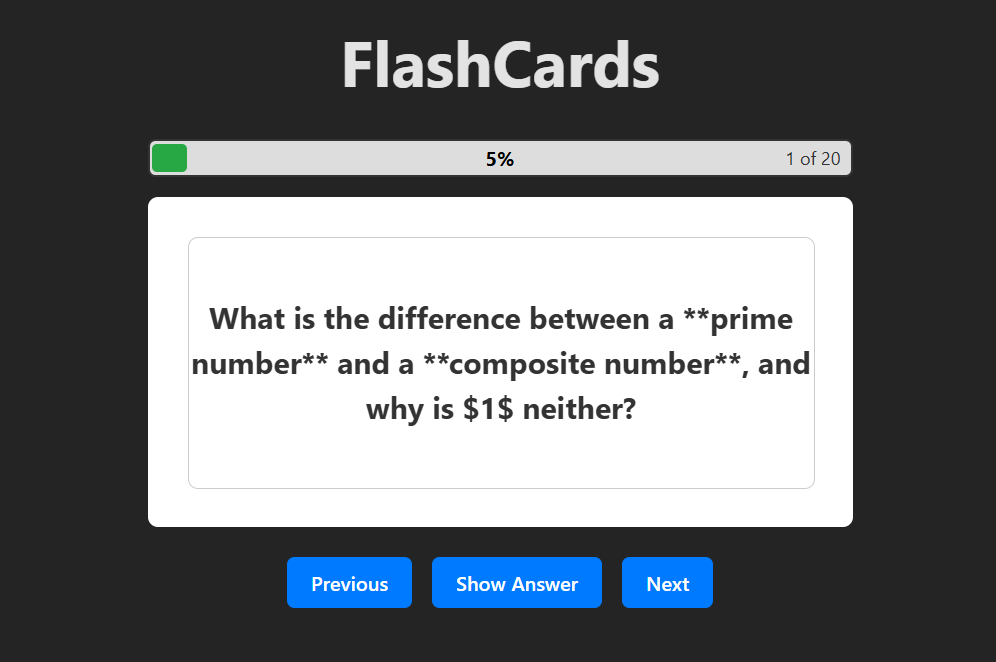
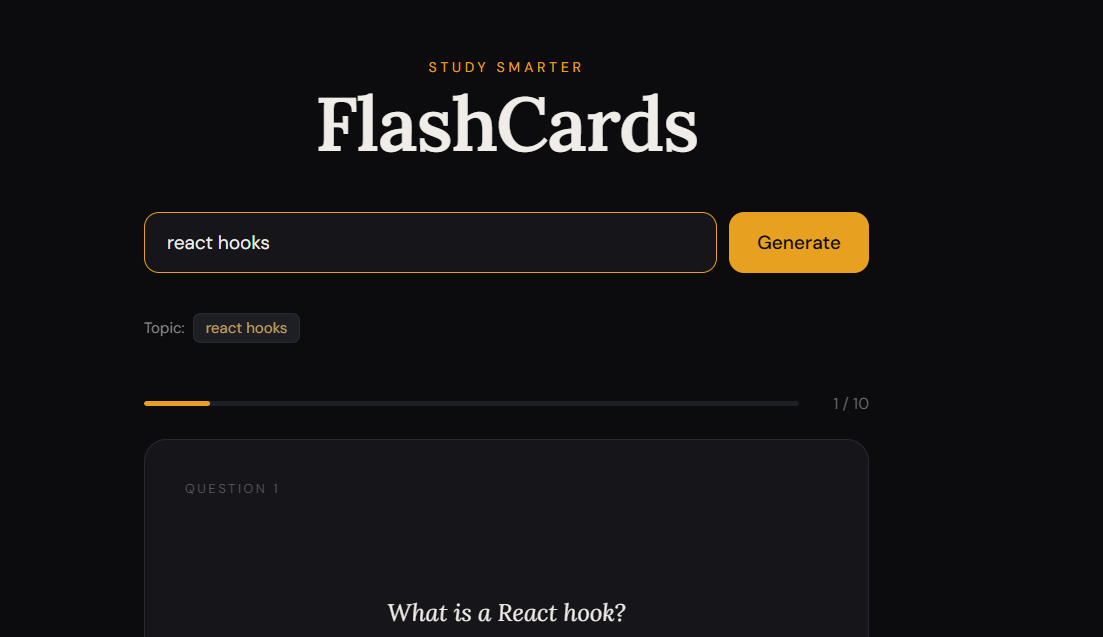
Add coding Assistant

diff --git a/index.html b/index.html
@@ -823,8 +823,30 @@
         </a>
       </div>
     </div>
-
-  </div>
+    <div class="project-card fade-in fade-in-delay-3">
+          <div class="project-img">
+            <img src="image/Codingassistant.png" alt="AI Assistant" onerror="this.style.display='none'; this.nextElementSibling.style.display='flex';">
+            <div class="project-img-ph" style="display:none;">
+              <svg viewBox="0 0 24 24" fill="none" stroke-width="1.5" stroke-linecap="round" stroke-linejoin="round"><rect x="2" y="5" width="20" height="14" rx="2"/><line x1="2" y1="10" x2="22" y2="10"/></svg>
+            </div>
+            <span class="project-tag">AI</span>
+          </div>
+          <div class="project-body">
+            <h3>Coding Assistant</h3>
+            <p>CodeAssist is a sleek, dark-themed developer assistant built with Vite + TypeScript, designed to make coding faster, smarter, and more intuitive. Powered by Groq, Gemini, and OpenRouter free APIs, it gives developers instant access to multiple AI models for debugging, explanations, and code generation.</p>
+            <div class="project-stack">
+              <span class="stack-pill">Vite</span>
+              <span class="stack-pill">TypeScript</span>
+              <span class="stack-pill">Claude</span>
+              <span class="stack-pill">API</span>
+            </div>
+            <a href="https://codingassistant.up.railway.app/" target="_blank" class="project-link">
+              View Live
+              <svg viewBox="0 0 24 24" fill="none" stroke-width="2" stroke-linecap="round" stroke-linejoin="round"><line x1="5" y1="12" x2="19" y2="12"/><polyline points="12 5 19 12 12 19"/></svg>
+            </a>
+          </div>
+        </div>
+      </div>
 </section>
 
 <!-- ─ CONTACT ─────────────────────────────────────── -->